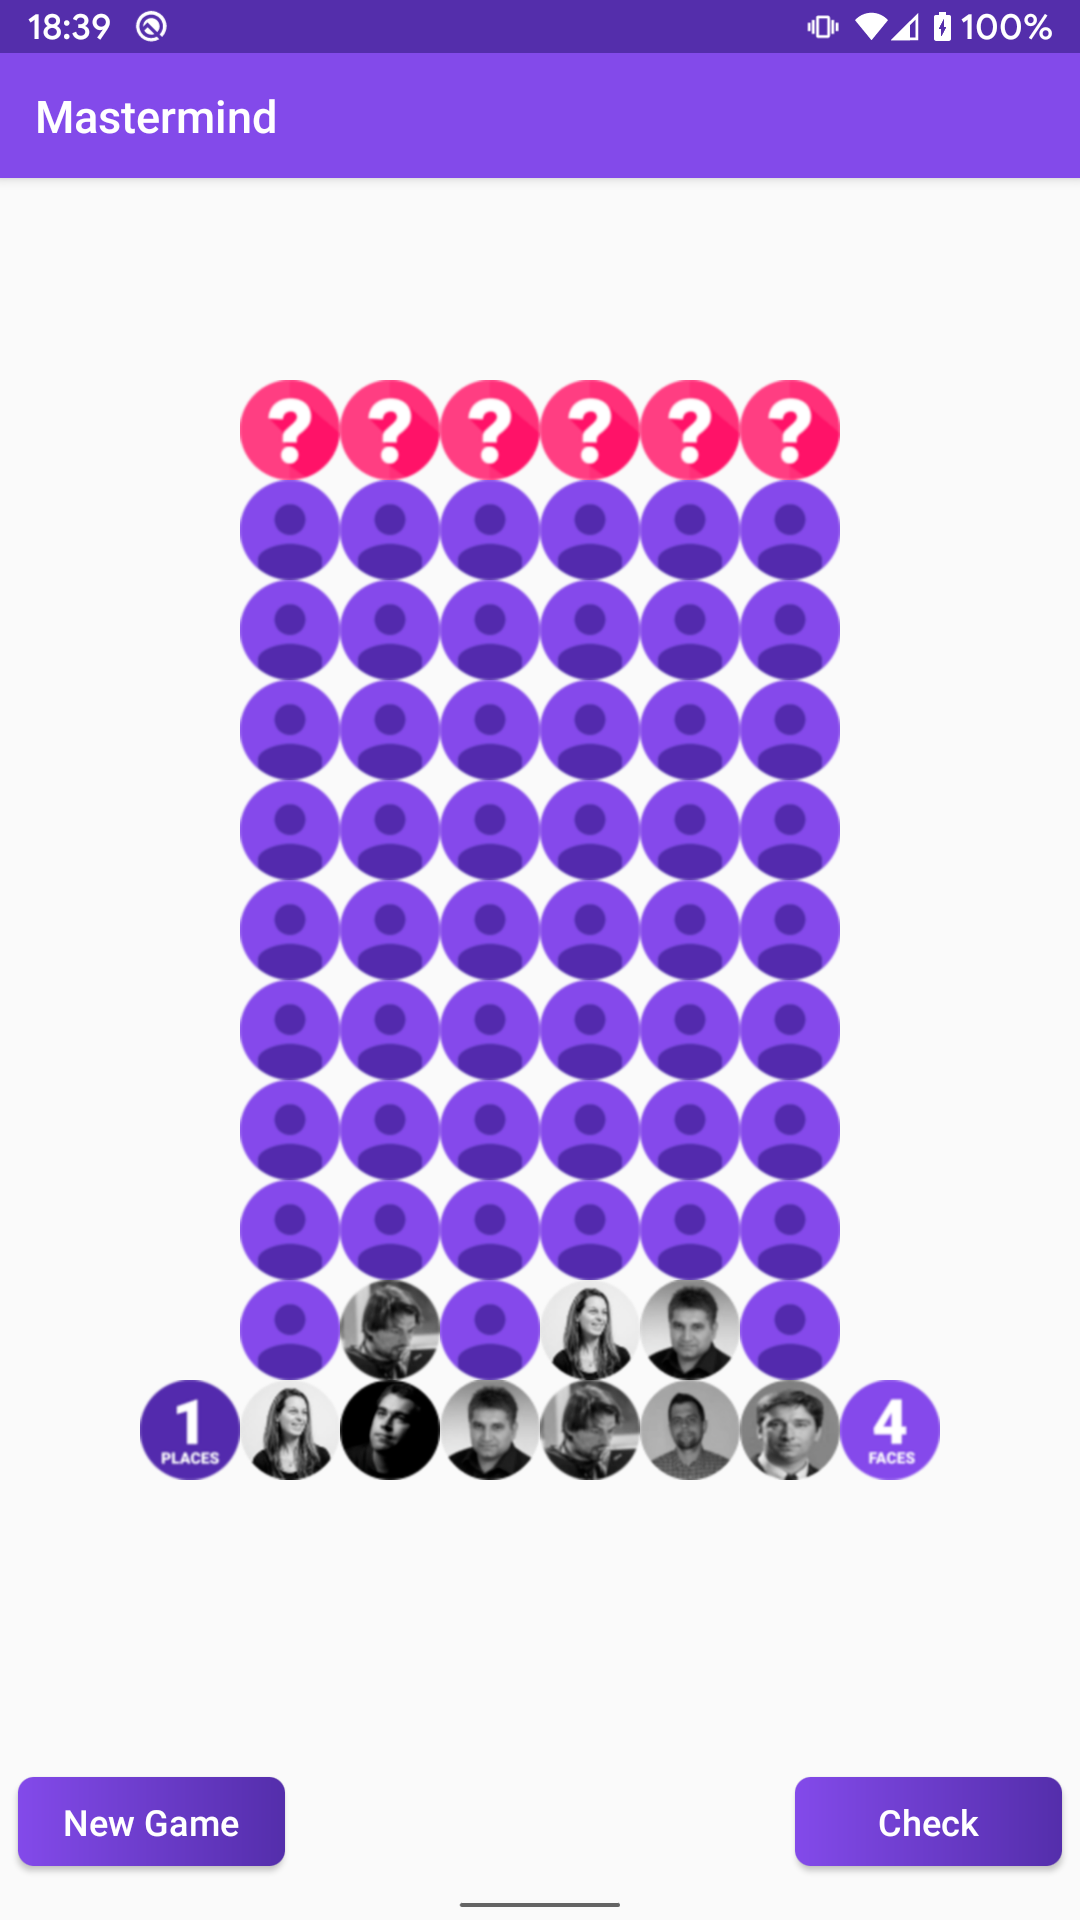
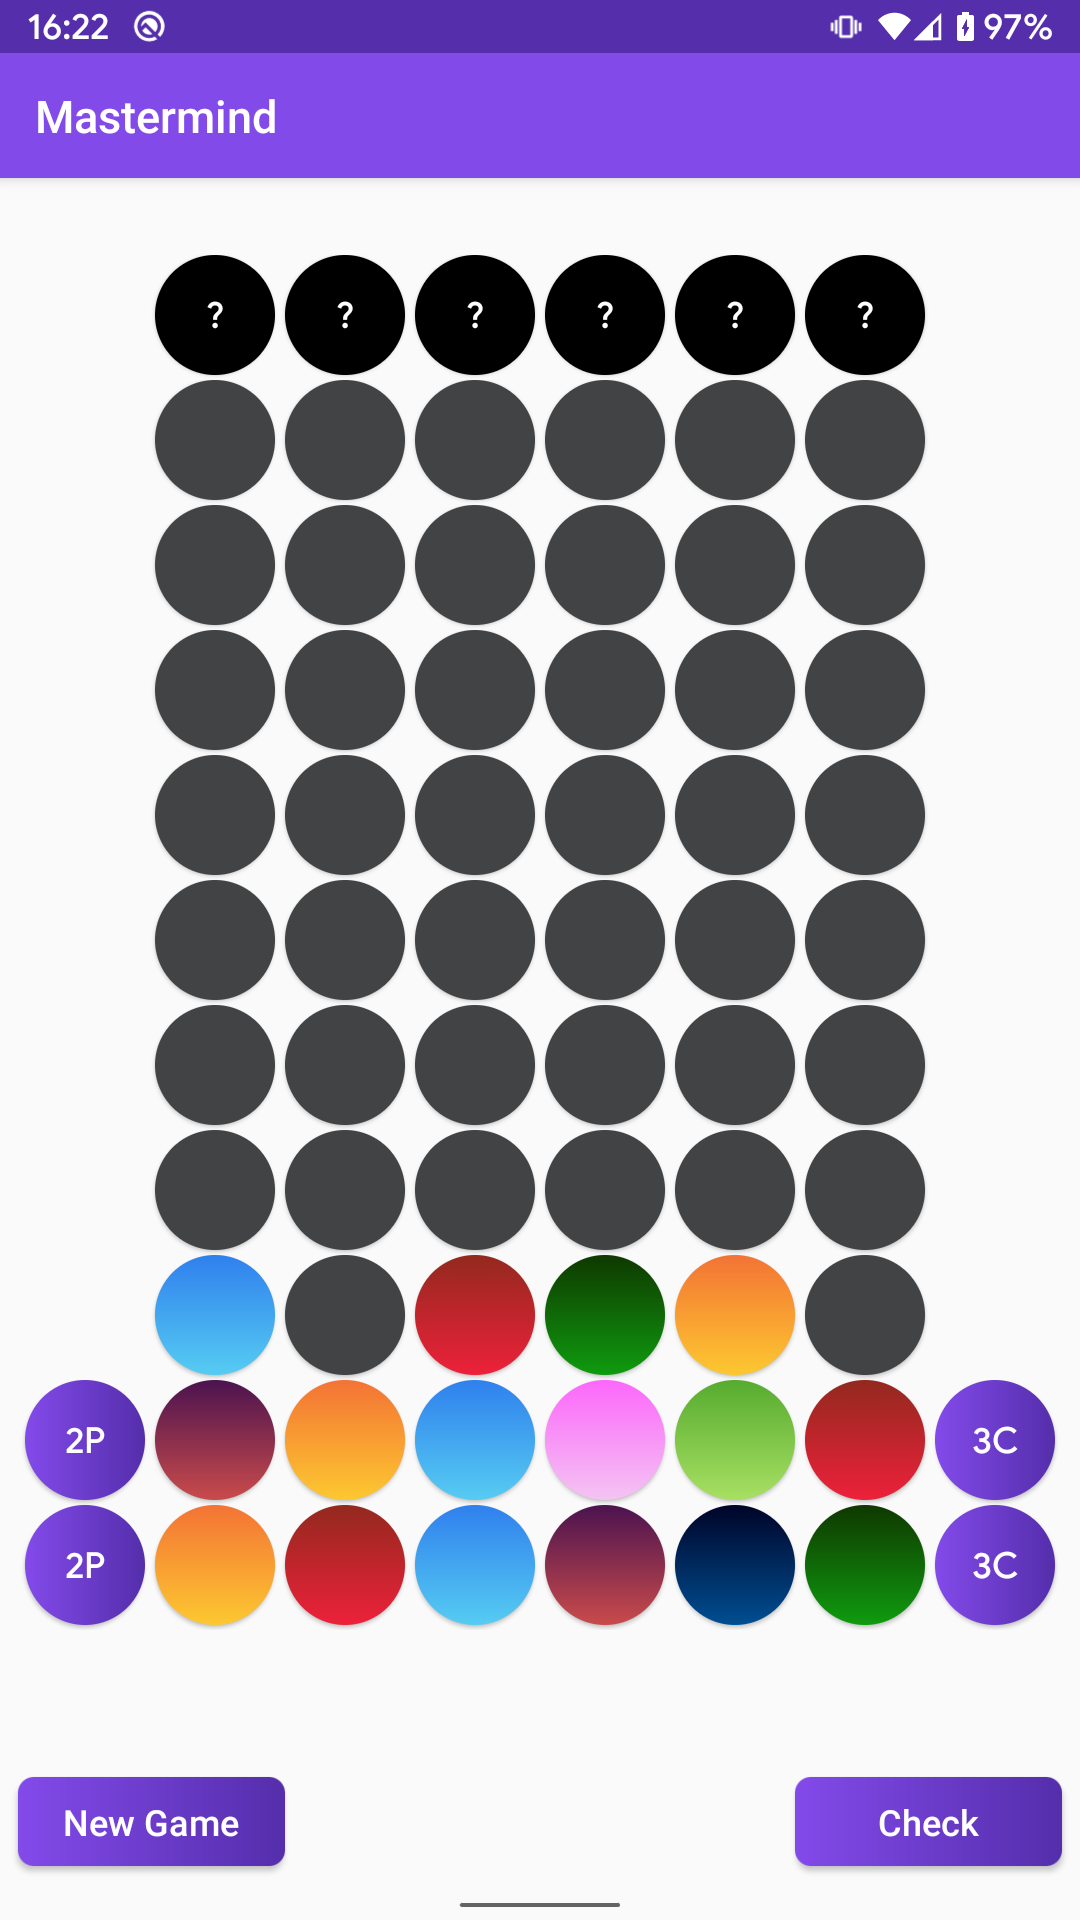
Changed Faces to Colors

diff --git a/app/src/main/java/com/vangor/mastermind/MainActivity.java b/app/src/main/java/com/vangor/mastermind/MainActivity.java
@@ -1,35 +1,46 @@
 package com.vangor.mastermind;
 
+import android.content.Context;
+import android.graphics.Color;
+import android.graphics.drawable.GradientDrawable;
 import android.os.Bundle;
 import android.util.DisplayMetrics;
 import android.util.Log;
 import android.view.View;
+import android.view.ViewGroup;
 import android.widget.Button;
-import android.widget.ImageButton;
-import android.widget.ImageView;
 import android.widget.TableLayout;
 import android.widget.TableRow;
 import android.widget.Toast;
 
 import androidx.appcompat.app.AppCompatActivity;
 
+import java.util.HashMap;
+
 import game.core.Ball;
 import game.core.BallColor;
 import game.core.Field;
 import game.core.GameState;
 
-public class MainActivity extends AppCompatActivity implements NewGameListener {
+import static android.graphics.drawable.GradientDrawable.Orientation.BOTTOM_TOP;
+import static android.graphics.drawable.GradientDrawable.Orientation.LEFT_RIGHT;
 
+public class MainActivity extends AppCompatActivity implements NewGameListener {
+	private final int TILE_SIZE = 120;
+	private final int TILE_MARGIN = 5;
+
+	private Context context;
 	// TODO: Fix, game crashes if not initialized with max sized field
 	private Field field = new Field(10, 6, false);
 	private int rows = field.getRowCount();
 	private int cols = field.getColCount();
-	private ImageButton[][] buttons = new ImageButton[rows][cols];
+	private Button[][] buttons = new Button[rows][cols];
 
 	@Override
 	protected void onCreate(Bundle savedInstanceState) {
 		super.onCreate(savedInstanceState);
 		setContentView(R.layout.activity_main);
+		context = getApplicationContext();
 
 		logScreenSize();
 
@@ -47,17 +58,23 @@ public class MainActivity extends AppCompatActivity implements NewGameListener {
 		btnCheck.setOnClickListener(new View.OnClickListener() {
 			@Override
 			public void onClick(View view) {
-				if (field.getState() == GameState.PLAYING && field.isRowFilled()) {
-					field.updateGameState();
-					field.generateClue();
-					Toast.makeText(getApplicationContext(), field.clueToString(field.getClue(), field.getCurrentRow()), Toast.LENGTH_SHORT).show();
-					field.nextRow();
-				} else if (field.getState() == GameState.PLAYING) {
-					Toast.makeText(getApplicationContext(), "Row is not complete!", Toast.LENGTH_SHORT).show();
-				} else if (field.getState() == GameState.SOLVED) {
-					Toast.makeText(getApplicationContext(), "You WON!", Toast.LENGTH_SHORT).show();
-				} else if (field.getState() == GameState.FAILED) {
-					Toast.makeText(getApplicationContext(), "You LOST!", Toast.LENGTH_SHORT).show();
+				switch (field.getState()) {
+					case PLAYING:
+						if (field.isRowFilled()) {
+							field.updateGameState();
+							field.generateClue();
+							Toast.makeText(context, field.clueToString(field.getClue(), field.getCurrentRow()), Toast.LENGTH_SHORT).show();
+							field.nextRow();
+						} else {
+							Toast.makeText(context, "Row is not complete!", Toast.LENGTH_SHORT).show();
+						}
+						break;
+					case SOLVED:
+						Toast.makeText(context, "You WON!", Toast.LENGTH_SHORT).show();
+						break;
+					case FAILED:
+						Toast.makeText(context, "You LOST!", Toast.LENGTH_SHORT).show();
+						break;
 				}
 				populateButtons();
 			}
@@ -70,68 +87,150 @@ public class MainActivity extends AppCompatActivity implements NewGameListener {
 		TableLayout table = findViewById(R.id.gameTable);
 		table.removeAllViews();
 		for (int row = 0; row < rows; row++) {
-			//Create new tableRow
-			TableRow tableRow = new TableRow(this);
-			//table.setBackgroundResource(R.color.colorAccent);
+			TableRow tableRow = new TableRow(context);
 			table.addView(tableRow);
 
-			//Insert faces clue
-			String image = field.clueToImg(field.getClue(), row, true);
-			int picId = getResources().getIdentifier(image, "drawable", getApplicationContext().getPackageName());
-			ImageView clue = new ImageView(this);
-			clue.setImageResource(picId);
-			tableRow.addView(clue);
+			HashMap clueMap = field.getClueHashMap(field.getClue(), row);
+
+			// Create place clue button
+			Button placesClueButton = new Button(context);
+			tableRow.addView(placesClueButton);
+			placesClueButton.setText(
+					getResources().getString(R.string.places_clue_format, clueMap.get("places"))
+			);
 
 			for (int col = 0; col < cols; col++) {
-				ImageButton button = new ImageButton(this);
+				Button button = new Button(context);
 				tableRow.addView(button);
 				buttons[row][col] = button;
 
-				//On button click function
-				final int FINAL_ROW = row;
-				final int FINAL_COL = col;
-				button.setOnClickListener(new View.OnClickListener() {
-					@Override
-					public void onClick(View view) {
-						gridButtonClicked(FINAL_ROW, FINAL_COL);
-					}
-				});
+				// On button click function
+				final int BUTTON_ROW_POSITION = row;
+				final int BUTTON_COL_POSITION = col;
+				if (field.getCurrentRow() == row) {
+					button.setOnClickListener(new View.OnClickListener() {
+						@Override
+						public void onClick(View view) {
+							gridButtonClicked(BUTTON_ROW_POSITION, BUTTON_COL_POSITION);
+						}
+					});
+				}
 			}
 
-			//Insert places clue
-			image = field.clueToImg(field.getClue(), row, false);
-			picId = getResources().getIdentifier(image, "drawable", getApplicationContext().getPackageName());
-			clue = new ImageView(this);
-			clue.setImageResource(picId);
-			tableRow.addView(clue);
+			// Create color clue button
+			Button colorsClueButton = new Button(context);
+			tableRow.addView(colorsClueButton);
+			colorsClueButton.setText(
+					getResources().getString(R.string.colors_clue_format, clueMap.get("colors"))
+			);
+
+
+			if (row <= field.getCurrentRow()) {
+				placesClueButton.setVisibility(View.INVISIBLE);
+				colorsClueButton.setVisibility(View.INVISIBLE);
+			}
+
+			int[] gradientColors = {
+					getResources().getColor(R.color.colorPrimary),
+					getResources().getColor(R.color.colorPrimaryDark)
+			};
+
+			// Styling
+			GradientDrawable gradient = new GradientDrawable(LEFT_RIGHT, gradientColors);
+			gradient.setCornerRadius(999f);
+
+			placesClueButton.setBackground(gradient);
+			colorsClueButton.setBackground(gradient);
+
+			ViewGroup.LayoutParams params = colorsClueButton.getLayoutParams();
+			params.width = TILE_SIZE;
+			params.height = TILE_SIZE;
+			placesClueButton.setLayoutParams(params);
+			colorsClueButton.setLayoutParams(params);
+
+			placesClueButton.setElevation(3f);
+			colorsClueButton.setElevation(3f);
+
+			placesClueButton.setTextColor(getResources().getColor(R.color.white));
+			colorsClueButton.setTextColor(getResources().getColor(R.color.white));
+
+			setMargins(placesClueButton, TILE_MARGIN, 0, TILE_MARGIN, TILE_MARGIN);
+			setMargins(colorsClueButton, TILE_MARGIN, 0, TILE_MARGIN, TILE_MARGIN);
 		}
-		renderImageButtons();
+		renderButtons();
 	}
 
 	private void gridButtonClicked(int row, int col) {
-		ImageButton button = buttons[row][col];
+		Button button = buttons[row][col];
 		if (field.getState() == GameState.PLAYING) {
 			try {
 				Ball ball = field.getTile(row, col);
 				BallColor nextColor = BallColor.getNext(ball);
 				field.setBall(col + 1, nextColor);
 			} catch (Exception e) {
-				Toast.makeText(getApplicationContext(), e.toString(), Toast.LENGTH_SHORT).show();
+				Toast.makeText(context, e.toString(), Toast.LENGTH_SHORT).show();
 			}
 		}
 		populateButtons();
 	}
 
-	private void renderImageButtons() {
+	private void renderButtons() {
 		for (int row = 0; row < rows; row++) {
 			for (int col = 0; col < cols; col++) {
-				ImageButton button = buttons[row][col];
+
+				Button button = buttons[row][col];
 				Ball ball = field.getTile(row, col);
-				String image = (row == 0 && field.getState() == GameState.PLAYING) ? "unknown" :
-						(ball != null) ? ball.getColor().toString().toLowerCase() : "nothing";
-				int picId = getResources().getIdentifier(image, "drawable", getApplicationContext().getPackageName());
-				button.setBackgroundResource(picId);
+
+				// Free tile colors
+				int ballColorLight = getResources().getColor(R.color.freeTileColor);
+				int ballColorDark = getResources().getColor(R.color.freeTileColor);
+
+				if (row == 0) {
+					if (field.getState() == GameState.PLAYING) {
+						// Hidden tile colors
+						ballColorLight = getResources().getColor(R.color.hiddenTileColor);
+						ballColorDark = getResources().getColor(R.color.hiddenTileColor);
+						button.setTextColor(getResources().getColor(R.color.white));
+						button.setText("?");
+					} else {
+						// Hidden tile colors
+						ballColorLight = Color.parseColor(ball.getColor().getColorLight());
+						ballColorDark = Color.parseColor(ball.getColor().getColorDark());
+						button.setTextColor(getResources().getColor(R.color.white));
+						button.setText("?");
+					}
+				} else if (ball != null) {
+					// Filled tile colors
+					ballColorLight = Color.parseColor(ball.getColor().getColorLight());
+					ballColorDark = Color.parseColor(ball.getColor().getColorDark());
+				}
+
+				int[] gradientColors = {
+						ballColorLight,
+						ballColorDark
+				};
+
+				GradientDrawable gradient = new GradientDrawable(BOTTOM_TOP, gradientColors);
+				gradient.setCornerRadius(999f);
+				button.setBackground(gradient);
+
+				ViewGroup.LayoutParams params = button.getLayoutParams();
+				params.width = TILE_SIZE;
+				params.height = TILE_SIZE;
+				button.setLayoutParams(params);
+
+				button.setElevation(3f);
+
+				setMargins(button, TILE_MARGIN, 0, TILE_MARGIN, TILE_MARGIN);
 			}
+		}
+	}
+
+	private void setMargins(View view, int left, int top, int right, int bottom) {
+		if (view.getLayoutParams() instanceof ViewGroup.MarginLayoutParams) {
+			ViewGroup.MarginLayoutParams p = (ViewGroup.MarginLayoutParams) view.getLayoutParams();
+			p.setMargins(left, top, right, bottom);
+			view.requestLayout();
 		}
 	}
 
@@ -142,7 +241,8 @@ public class MainActivity extends AppCompatActivity implements NewGameListener {
 		int screenHeight = display.heightPixels;
 		DisplayMetrics metrics = getResources().getDisplayMetrics();
 		int densityDpi = (int) (metrics.density * 160f);
-		Log.d("screenSize", "Height: " + screenHeight + " ,width: " + screenWidth + " " + screenHeight + " " + screenWidth + " " + densityDpi);
+		Log.d("=== Screen size: ",
+				"height: " + screenHeight + ", width: " + screenWidth + ", density(DPI): " + densityDpi);
 	}
 
 	@Override
@@ -150,7 +250,8 @@ public class MainActivity extends AppCompatActivity implements NewGameListener {
 		this.rows = rows;
 		this.cols = columns;
 		field = new Field(this.rows++, this.cols, false);
-		Log.d("=======================", "Rows: " + rows + " ,cols: " + columns + " currentRow: " + field.getCurrentRow());
+		Log.d("==== New game: ",
+				"Rows: " + rows + " ,cols: " + columns + " currentRow: " + field.getCurrentRow());
 		populateButtons();
 	}
 }

diff --git a/app/src/main/java/game/core/BallColor.java b/app/src/main/java/game/core/BallColor.java
@@ -1,14 +1,22 @@
 package game.core;
 
 public enum BallColor {
-	RED,
-	GREEN,
-	BLUE,
-	YELLOW,
-	CYAN,
-	DARK,
-	MAGENTA,
-	WHITE;
+	CITRUS_PEEL     ("#FDC830", "#F37335"),
+	SIN_CITY_RED    ("#ED213A", "#93291E"),
+	BLUE_RASPBERRY  ("#56CCF2", "#2F80ED"),
+	BLACK_ROSE      ("#f4c4f3", "#fc67fa"),
+	FROST           ("#004e92", "#000428"),
+	LUSH            ("#a8e063", "#56ab2f"),
+	TERMINUS        ("#0f9b0f", "#0f3800"), // Change
+	BIGHEAD         ("#c94b4b", "#4b134f");
+
+	private String colorLight;
+	private String colorDark;
+
+	BallColor(String colorLight, String colorDark) {
+		this.colorLight = colorLight;
+		this.colorDark = colorDark;
+	}
 
 	public static BallColor getRandom() {
 		return values()[(int) (Math.random() * values().length)];
@@ -20,6 +28,14 @@ public enum BallColor {
 
 	public static BallColor getNext(Ball ball) {
 		return (ball == null || ball.getColor().ordinal() == values().length - 1) ? values()[0] : values()[ball.getColor().ordinal() + 1];
+	}
+
+	public String getColorLight() {
+		return colorLight;
+	}
+
+	public String getColorDark() {
+		return colorDark;
 	}
 }
 

diff --git a/app/src/main/java/game/core/Field.java b/app/src/main/java/game/core/Field.java
@@ -1,5 +1,7 @@
 package game.core;
 
+import java.util.HashMap;
+
 public class Field {
 
 	private final int rowCount;
@@ -186,5 +188,20 @@ public class Field {
 		} else {
 			return "blank";
 		}
+	}
+
+	public HashMap getClueHashMap(ClueType[][] clue, int row) {
+		int colors = 0;
+		int places = 0;
+		for (int col = 0; col < getColCount(); col++) {
+			colors = clue[row][col] == ClueType.COLOR ? colors + 1 : colors;
+			places = clue[row][col] == ClueType.PLACE ? places + 1 : places;
+		}
+
+		HashMap<String, Integer> clues = new HashMap<>();
+		clues.put("colors", colors);
+		clues.put("places", places);
+
+		return clues;
 	}
 }
